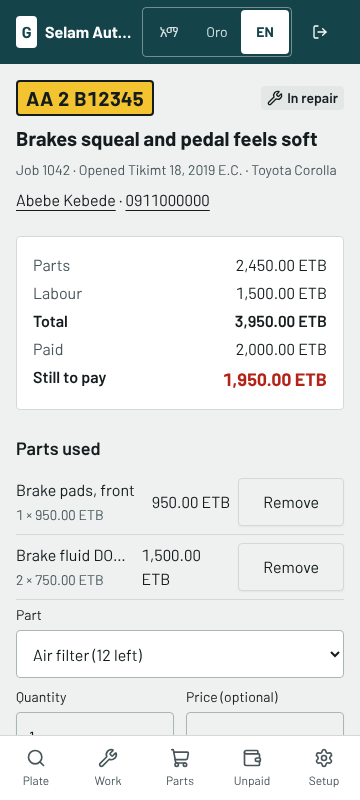
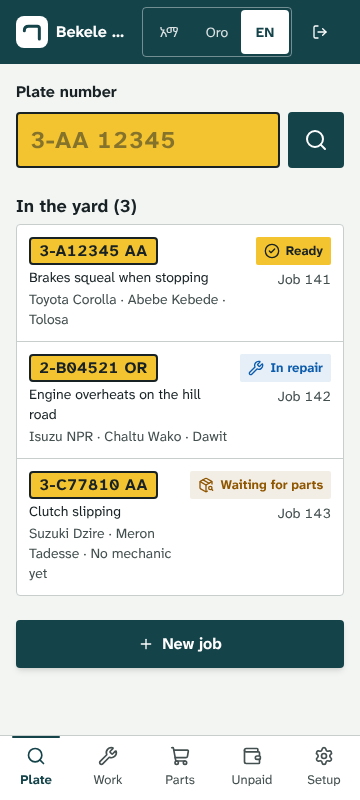
Fix job card and plate search overflowing at 360 px: stack line totals over Remove, wrap long part names, keep page columns within the screen

diff --git a/src/app/(app)/jobs/[id]/page.tsx b/src/app/(app)/jobs/[id]/page.tsx
@@ -61,7 +61,7 @@ export default async function JobPage({ params }: { params: Promise<{ id: string
   const nextSteps = NEXT[job.status];
 
   return (
-    <div className="grid gap-6">
+    <div className="grid grid-cols-1 gap-6">
       <header className="grid gap-2">
         <div className="flex flex-wrap items-center justify-between gap-2">
           <Link href={`/vehicles/${job.vehicle.id}`} aria-label={t("history")}>
@@ -69,7 +69,7 @@ export default async function JobPage({ params }: { params: Promise<{ id: string
           </Link>
           <StatusTag status={job.status} />
         </div>
-        <h1 className="text-xl font-bold text-balance">{job.complaint}</h1>
+        <h1 className="text-[1.5625rem] leading-tight font-bold text-balance break-words">{job.complaint}</h1>
         <p className="text-sm text-muted-foreground">
           {tJobs("jobNo", { no: job.jobNo })} · {t("openedOn", { date: formatEthiopianDate(job.openedAt.slice(0, 10), locale) })}
           {vehicleName ? ` · ${vehicleName}` : ""}
@@ -109,15 +109,15 @@ export default async function JobPage({ params }: { params: Promise<{ id: string
         ) : (
           <ul>
             {lines.parts.map((p) => (
-              <li key={p.id} className="flex items-center justify-between gap-3 border-b py-2">
-                <span className="min-w-0">
-                  <span className="block truncate font-medium">{p.name}</span>
+              <li key={p.id} className="flex items-start justify-between gap-3 border-b py-2">
+                <span className="min-w-0 flex-1">
+                  <span className="block font-medium break-words">{p.name}</span>
                   <span className="num text-sm text-muted-foreground">
                     {p.qty} × {formatBirr(p.unitPrice, locale)}
                   </span>
                 </span>
-                <span className="flex items-center gap-2">
-                  <span className="num">{formatBirr(p.lineTotal, locale)}</span>
+                <span className="flex shrink-0 flex-col items-end gap-1">
+                  <span className="num font-medium whitespace-nowrap">{formatBirr(p.lineTotal, locale)}</span>
                   {open ? (
                     <ActionForm action={reversePartAction} submitLabel={t("remove")} variant="outline" className="inline">
                       <input type="hidden" name="job" value={job.id} />
@@ -163,13 +163,13 @@ export default async function JobPage({ params }: { params: Promise<{ id: string
         ) : (
           <ul>
             {lines.labour.map((l) => (
-              <li key={l.id} className="flex items-center justify-between gap-3 border-b py-2">
-                <span className="min-w-0">
-                  <span className="block truncate font-medium">{l.description}</span>
+              <li key={l.id} className="flex items-start justify-between gap-3 border-b py-2">
+                <span className="min-w-0 flex-1">
+                  <span className="block font-medium break-words">{l.description}</span>
                   {l.mechanicName ? <span className="text-sm text-muted-foreground">{l.mechanicName}</span> : null}
                 </span>
-                <span className="flex items-center gap-2">
-                  <span className="num">{formatBirr(l.amount, locale)}</span>
+                <span className="flex shrink-0 flex-col items-end gap-1">
+                  <span className="num font-medium whitespace-nowrap">{formatBirr(l.amount, locale)}</span>
                   {open ? (
                     <ActionForm action={reverseLabourAction} submitLabel={t("remove")} variant="outline" className="inline">
                       <input type="hidden" name="job" value={job.id} />
@@ -209,7 +209,7 @@ export default async function JobPage({ params }: { params: Promise<{ id: string
                 <span className="text-muted-foreground">
                   {t(`methods.${p.method === "chapa" ? "other" : p.method}`)} · {formatEthiopianDate(p.createdAt.slice(0, 10), locale)}
                 </span>
-                <span className="num">{formatBirr(p.amount, locale)}</span>
+                <span className="num shrink-0 whitespace-nowrap">{formatBirr(p.amount, locale)}</span>
               </li>
             ))}
           </ul>

diff --git a/src/app/(app)/page.tsx b/src/app/(app)/page.tsx
@@ -30,7 +30,7 @@ export default async function PlatePage({ searchParams }: { searchParams: Promis
   ]);
 
   return (
-    <div className="grid gap-6">
+    <div className="grid grid-cols-1 gap-6">
       <form action="/" className="grid gap-2">
         <Label htmlFor="q" className="text-base font-semibold">
           {t("plateLabel")}
@@ -43,7 +43,7 @@ export default async function PlatePage({ searchParams }: { searchParams: Promis
             placeholder={t("platePlaceholder")}
             autoCapitalize="characters"
             autoComplete="off"
-            className="num h-14 min-w-0 flex-1 rounded border-2 border-foreground bg-plate px-3 text-2xl font-bold tracking-wide text-foreground outline-none placeholder:text-foreground/50 focus-visible:ring-[3px] focus-visible:ring-ring/50"
+            className="num h-14 w-0 min-w-0 flex-1 rounded border-2 border-foreground bg-plate px-3 text-2xl font-bold tracking-wide text-foreground outline-none placeholder:text-foreground/50 focus-visible:ring-[3px] focus-visible:ring-ring/50"
           />
           <button type="submit" aria-label={t("search")} className={cn(buttonVariants({ size: "lg" }), "h-14 w-14 shrink-0 px-0")}>
             <Search aria-hidden className="size-6" />

diff --git a/src/app/(app)/unpaid/page.tsx b/src/app/(app)/unpaid/page.tsx
@@ -14,7 +14,7 @@ export default async function UnpaidPage() {
   const [t, jobs] = await Promise.all([getTranslations("unpaid"), listUnpaidJobs()]);
   const totalOwed = jobs.reduce((sum, j) => sum + Number(j.balance), 0);
   return (
-    <div className="grid gap-4">
+    <div className="grid grid-cols-1 gap-4">
       <div className="flex items-baseline justify-between gap-3">
         <h1 className="text-[1.5625rem] leading-tight font-bold">{t("title")}</h1>
         <Link href="/customers" className="font-medium text-primary underline underline-offset-4">{t("customers")}</Link>

diff --git a/src/app/(app)/customers/page.tsx b/src/app/(app)/customers/page.tsx
@@ -16,7 +16,7 @@ export default async function CustomersPage({ searchParams }: { searchParams: Pr
   const locale = (await getLocale()) as Locale;
   const [t, customers] = await Promise.all([getTranslations("customers"), listCustomers(query)]);
   return (
-    <div className="grid gap-4">
+    <div className="grid grid-cols-1 gap-4">
       <h1 className="text-[1.5625rem] leading-tight font-bold">{t("title")}</h1>
       <form action="/customers" className="flex items-end gap-2">
         <div className="grid min-w-0 flex-1 gap-2">

diff --git a/src/app/(app)/vehicles/[id]/page.tsx b/src/app/(app)/vehicles/[id]/page.tsx
@@ -24,7 +24,7 @@ export default async function VehiclePage({ params }: { params: Promise<{ id: st
   const { vehicle, jobs } = history;
   const hasOpen = jobs.some((j) => j.status !== "delivered");
   return (
-    <div className="grid gap-5">
+    <div className="grid grid-cols-1 gap-5">
       <header className="grid gap-2">
         <Plate plate={vehicle.plate} className="justify-self-start text-2xl" />
         <p className="font-medium">

diff --git a/src/app/(app)/parts/page.tsx b/src/app/(app)/parts/page.tsx
@@ -20,7 +20,7 @@ export default async function PartsPage({ searchParams }: { searchParams: Promis
   const canManage = profile.role !== "staff";
 
   return (
-    <div className="grid gap-4">
+    <div className="grid grid-cols-1 gap-4">
       <h1 className="text-[1.5625rem] leading-tight font-bold">{t("title")}</h1>
       <form action="/parts" className="flex items-end gap-2">
         <div className="grid min-w-0 flex-1 gap-2">

diff --git a/src/app/(app)/customers/[id]/page.tsx b/src/app/(app)/customers/[id]/page.tsx
@@ -18,7 +18,7 @@ export default async function CustomerPage({ params }: { params: Promise<{ id: s
   if (!detail) notFound();
   const { customer, vehicles, unpaidJobs, ledger } = detail;
   return (
-    <div className="grid gap-5">
+    <div className="grid grid-cols-1 gap-5">
       <header className="grid gap-1">
         <h1 className="text-[1.5625rem] leading-tight font-bold">{customer.name}</h1>
         {customer.phone ? (

diff --git a/src/app/(app)/work/page.tsx b/src/app/(app)/work/page.tsx
@@ -21,7 +21,7 @@ export default async function WorkPage({ searchParams }: { searchParams: Promise
   }
 
   return (
-    <div className="grid gap-4">
+    <div className="grid grid-cols-1 gap-4">
       <h1 className="text-[1.5625rem] leading-tight font-bold">{t("title")}</h1>
       <form action="/work" className="flex items-end gap-2">
         <div className="min-w-0 flex-1">
